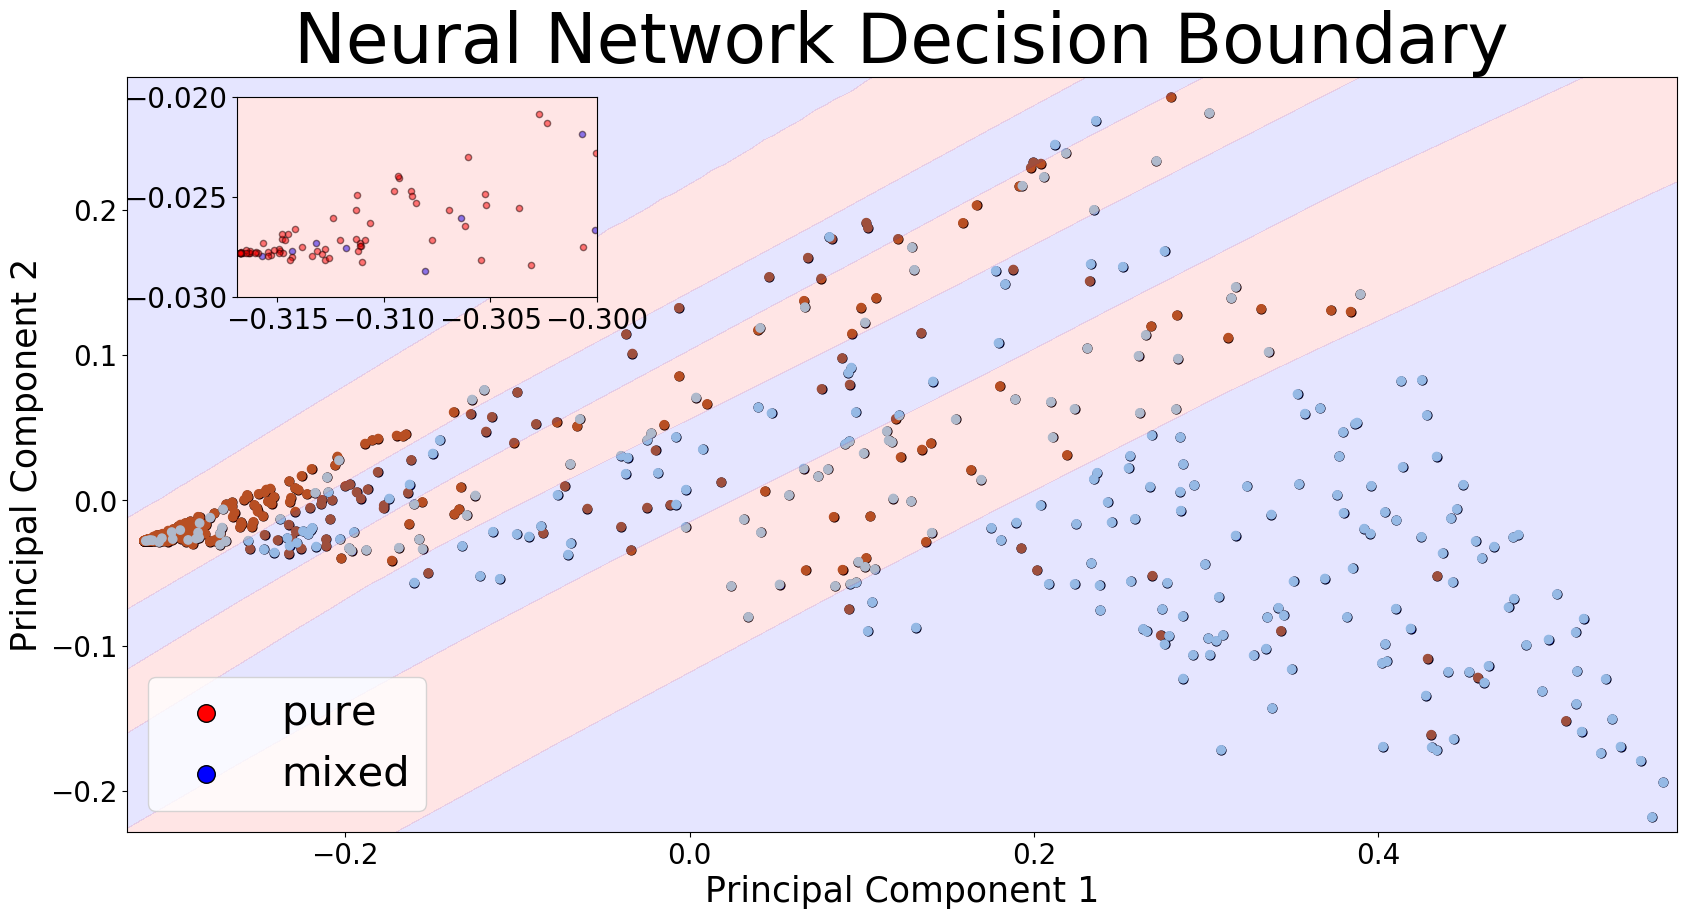
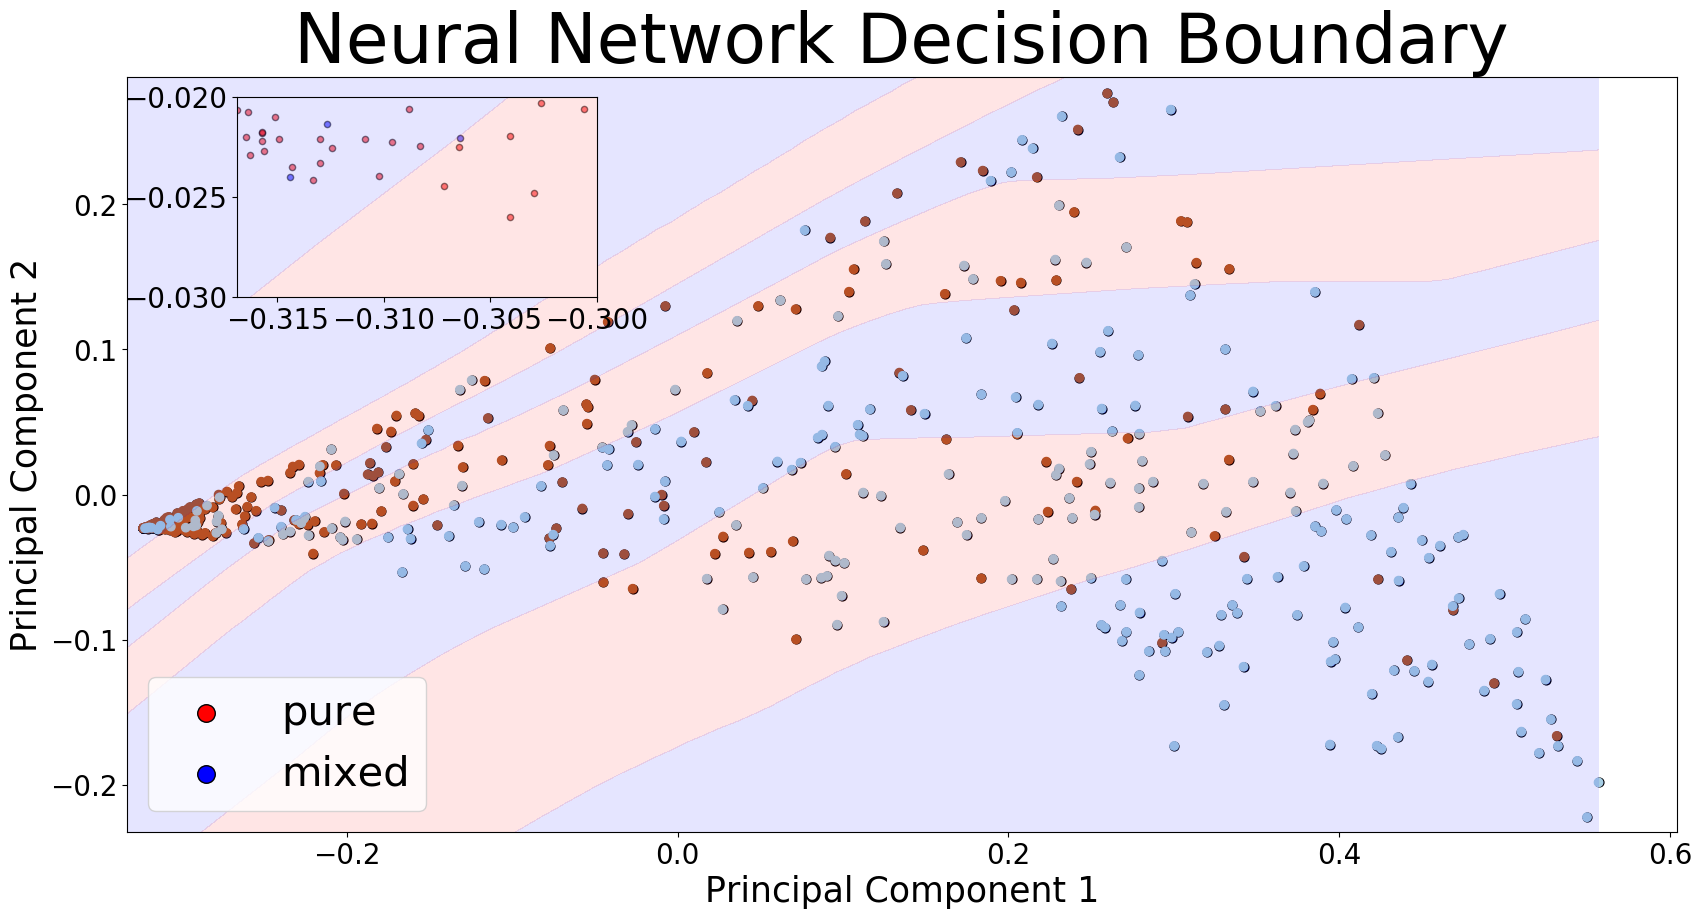
updated decision boundary

diff --git a/finalTrainer.py b/finalTrainer.py
@@ -27,6 +27,7 @@ from tensorflow.keras.layers import Dense
 from tensorflow.keras.constraints import max_norm
 from matplotlib.colors import LinearSegmentedColormap
 import pickle
+from sklearn.metrics import confusion_matrix
 # Utility function to report best scores
 #takes params results (from random search cv) and # to report (default 1)
 def report(results, n_top=1):
@@ -105,13 +106,13 @@ pca.transform(np.array([0.0,0.9,0.4,0.8]).reshape(-1,1))
 # define the keras model
 EPOCHS = 300
 bestModel = Sequential()
-bestModel.add(Dense(48, input_dim=2, activation='relu',kernel_constraint=max_norm(3), bias_constraint=max_norm(3)))
-bestModel.add(Dense(24, activation='relu',kernel_constraint=max_norm(3), bias_constraint=max_norm(3)))
-bestModel.add(Dense(4, activation='relu',kernel_constraint=max_norm(3), bias_constraint=max_norm(3)))
+bestModel.add(Dense(96, input_dim=2, activation='relu',kernel_constraint=max_norm(3), bias_constraint=max_norm(3)))
+bestModel.add(Dense(48, activation='relu',kernel_constraint=max_norm(3), bias_constraint=max_norm(3)))
+bestModel.add(Dense(8, activation='relu',kernel_constraint=max_norm(3), bias_constraint=max_norm(3)))
 bestModel.add(Dense(1, activation='sigmoid'))
 bestModel.compile(loss='binary_crossentropy', optimizer='adam', metrics=['accuracy'])
-X_train, X_test, y_train, y_test = train_test_split( X, y, test_size=0.2, random_state=2)
-history = bestModel.fit(X_train, y_train, epochs=EPOCHS, batch_size=500, verbose = 1)
+X_train, X_test, y_train, y_test = train_test_split( X, y, test_size=0.33, random_state=2)
+history = bestModel.fit(X_train, y_train, epochs=EPOCHS, batch_size=128, verbose = 0)
 bestModel.evaluate(X_test, y_test)
 
 # Plot the decision boundary
@@ -123,7 +124,7 @@ plt.rc('ytick',labelsize=20)
 plt.xlabel('Principal Component 1',fontsize = 25)
 plt.ylabel('Principal Component 2',fontsize = 25)
 h=0.01
-x_min, x_max = X[:,0].min()-0.01, X[:,0].max()+.01
+x_min, x_max = X[:,0].min()-0.01, X[:,0].max()+.02
 y_min, y_max = X[:,1].min()-.01, X[:,1].max()+.02
 xx, yy = np.meshgrid(np.arange(x_min, x_max, h),
                      np.arange(y_min, y_max, h))
@@ -147,9 +148,16 @@ left, bottom, width, height = [0.18, 0.66, 0.18, 0.2]
 ax2 = fig.add_axes([left, bottom, width, height])
 ax2.scatter(X[idx2 ,0], X[idx2,1], c='blue', edgecolor='k', s=20, label = 'mixed', alpha = 0.5)
 ax2.scatter(X[idx ,0], X[idx,1], c='red', edgecolor='k', s=20, label = 'pure', alpha = 0.5)
-ax2.set_xlim(-0.3169,-0.3)
+ax2.set_xlim(-0.34,-0.32)
 ax2.set_ylim(-0.03,-0.02)
 ax2.contourf(xx, yy, Z, colors=myColors,alpha=.1)
-plt.savefig("decboundary.png",transparent=False,dpi=100,bbox_inches = "tight")
+plt.savefig("decboundary22.png",transparent=False,dpi=100,bbox_inches = "tight")
 plt.show()
+predicts = bestModel.predict(X_test)
+for i in range(predicts.shape[0]):
+    if predicts[i]>0.5:
+        predicts[i] = 1
+    else:
+        predicts[i] = 0
+confusion_matrix(predicts, y_test)
 #bestModel.save("bestModel.h5")
